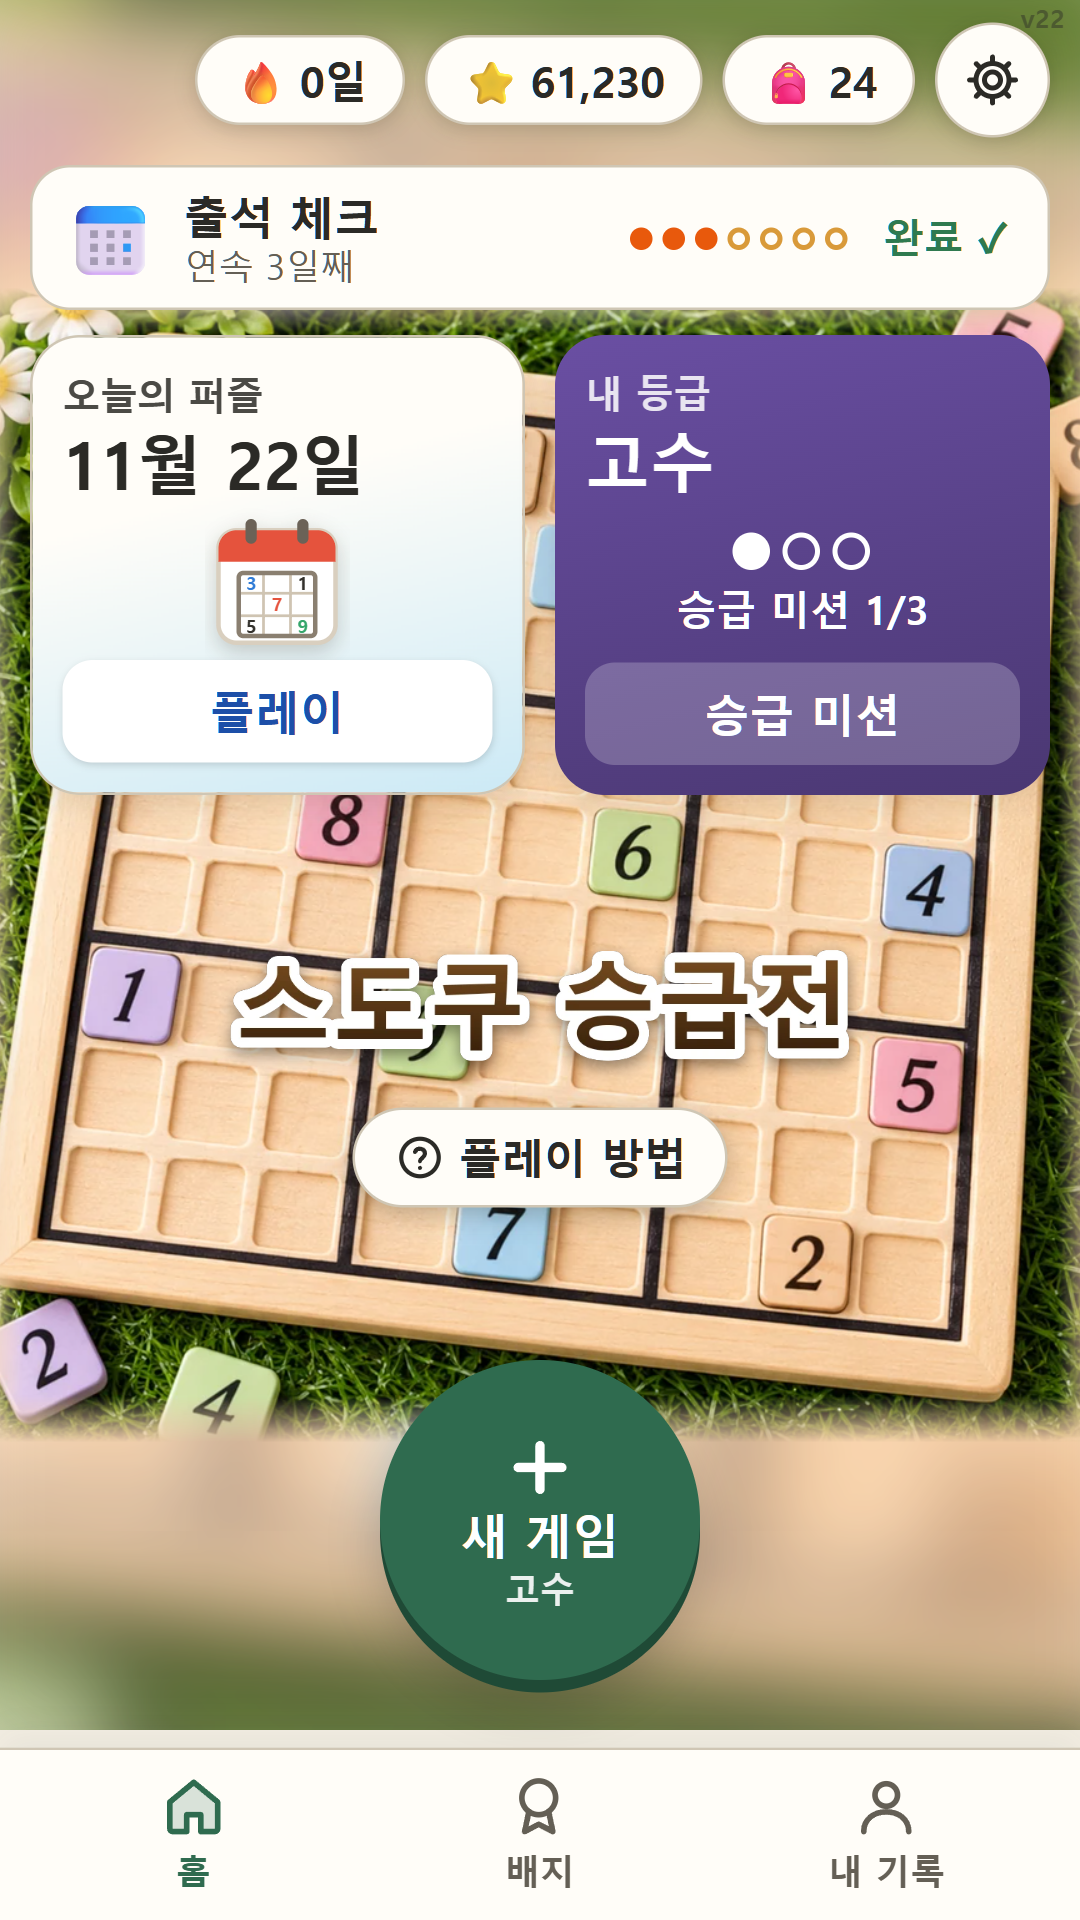
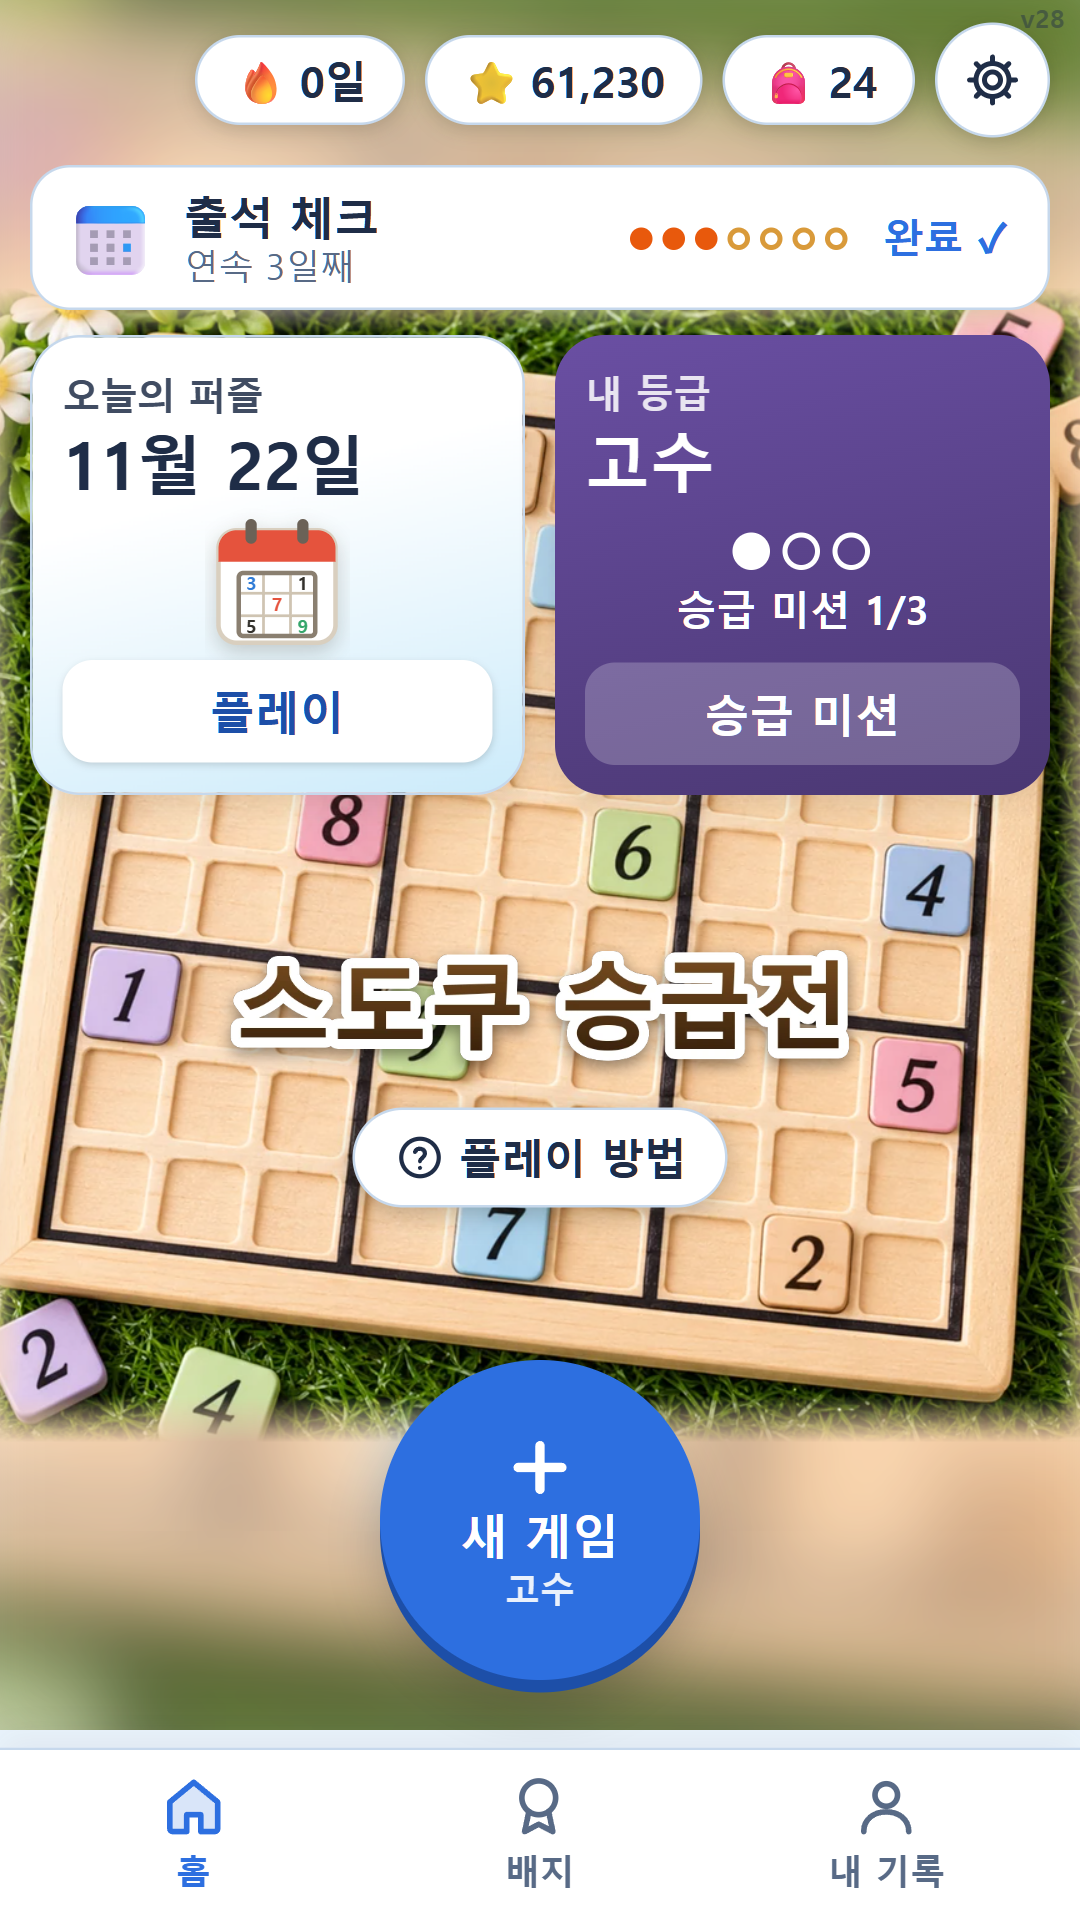
기본 색을 녹색에서 시작 그림의 하늘색 계열로, 승급 창은 '축!' 대신 감탄 한마디와 등급 고양이
- 바탕 · 버튼 · 선 색을 하늘색/파랑으로 (다크 모드도), 스토어 스크린샷 다시 찍음
- 승급 창 동그라미에 올라간 등급의 고양이(기쁨 표정), 맨 위에 '대단해요!' '최고예요!' 등 그때그때 하나

diff --git a/css/style.css b/css/style.css
@@ -6,20 +6,22 @@
    휴대폰에서는 위아래로, PC(너비 900 이상)에서는 판 왼쪽 · 버튼 오른쪽으로 놓입니다.
    ============================================================ */
 :root {
-  --bg: #f3eee3;          /* 바탕 */
-  --surface: #fffdf8;     /* 카드, 판 */
-  --ink: #2b2a26;         /* 기본 글자 */
-  --ink-soft: #645f55;    /* 흐린 글자 */
-  --line: #cfc6b4;        /* 가는 선 */
-  --line-strong: #4a463d; /* 굵은 선 */
-  --accent: #2f6b4f;      /* 주요 버튼 */
+  /* 하늘색 계열 (시작 그림 img/gate.webp 의 하늘 · 제목 파랑에 맞춤) */
+  --bg: #eaf4fd;          /* 바탕 */
+  --surface: #ffffff;     /* 카드, 판 */
+  --ink: #1f2d47;         /* 기본 글자 (짙은 남색) */
+  --ink-soft: #586a86;    /* 흐린 글자 */
+  --line: #c6d8ec;        /* 가는 선 */
+  --line-strong: #2c4568; /* 굵은 선 */
+  --accent: #2d6fe0;      /* 주요 버튼 (제목 파랑) */
+  --accent-shadow: #1d4fa8;
   --accent-ink: #ffffff;
   --user: #1b5aa6;        /* 내가 넣은 숫자 */
   --wrong: #c0362a;       /* 틀린 숫자 */
   --wrong-bg: #fbe1dc;
   --sel: #ffd35c;         /* 고른 칸 */
   --same: #ffe9a6;        /* 같은 숫자 */
-  --peer: #ece5d3;        /* 같은 줄·칸·상자 */
+  --peer: #dfecfa;        /* 같은 줄·칸·상자 */
   --grade: #6f7f8c;       /* 등급 색 (등급마다 바뀜) */
   --radius: 16px;
 }
@@ -331,8 +333,8 @@ button.chip:disabled { cursor: default; }
   font-size: 23px;
   font-weight: 700;
 }
-.btn-primary { background: var(--accent); color: var(--accent-ink); box-shadow: 0 3px 0 var(--accent-shadow, #1f4a36); }
-.btn-primary:active { transform: translateY(2px); box-shadow: 0 1px 0 var(--accent-shadow, #1f4a36); }
+.btn-primary { background: var(--accent); color: var(--accent-ink); box-shadow: 0 3px 0 var(--accent-shadow, #1d4fa8); }
+.btn-primary:active { transform: translateY(2px); box-shadow: 0 1px 0 var(--accent-shadow, #1d4fa8); }
 .btn-secondary { background: var(--surface); color: var(--ink); border: 2px solid var(--line); }
 .btn-secondary:active { background: var(--peer); }
 
@@ -433,7 +435,12 @@ button.chip:disabled { cursor: default; }
 .grade-info { margin: 0; color: var(--ink-soft); font-size: 18px; }
 
 .promo-box { display: flex; flex-direction: column; align-items: center; gap: 12px; animation: rise 0.45s ease-out; }
-.promo-cheer { margin: 0; font-size: 56px; font-weight: 800; color: var(--wrong); line-height: 1; }
+.promo-cheer { margin: 0; font-size: 50px; font-weight: 900; color: var(--accent); line-height: 1.1; letter-spacing: -1px; }
+/* 승급 창 동그라미 : 올라간 등급의 고양이 (img/chars.webp, 기쁨 표정 줄) */
+.promo-face {
+  width: 100%; height: 100%; border-radius: 50%;
+  background: #fff url("../img/chars.webp") 0 20% / 1400% 600% no-repeat;
+}
 .promo-text { margin: 0 0 6px; font-size: 38px; font-weight: 800; }
 .badge-big { width: 168px; height: 168px; animation: stamp 0.6s ease-out; }
 .badge-big .badge-name { font-size: 52px; }
@@ -840,9 +847,9 @@ button.grade-row:hover, button.grade-row:active { background: var(--peer); }
   border: 0; border-radius: 12px;
   background: var(--accent); color: var(--accent-ink);
   font-size: 17px; font-weight: 800;
-  box-shadow: 0 3px 0 var(--accent-shadow, #1f4a36);
+  box-shadow: 0 3px 0 var(--accent-shadow, #1d4fa8);
 }
-.item-use:active { transform: translateY(2px); box-shadow: 0 1px 0 var(--accent-shadow, #1f4a36); }
+.item-use:active { transform: translateY(2px); box-shadow: 0 1px 0 var(--accent-shadow, #1d4fa8); }
 .item-use:disabled { background: var(--line); color: var(--ink-soft); box-shadow: none; cursor: default; }
 
 /* ---------- 출석 체크 창 ---------- */

diff --git a/index.html b/index.html
@@ -4,7 +4,7 @@
   <meta charset="utf-8">
   <!-- 두 손가락으로 화면이 확대되지 않게 (maximum-scale, user-scalable). 설명 글 쪽 privacy.html 은 확대 가능 -->
   <meta name="viewport" content="width=device-width, initial-scale=1, maximum-scale=1, user-scalable=no, viewport-fit=cover">
-  <meta name="theme-color" content="#f3eee3">
+  <meta name="theme-color" content="#eaf4fd">
   <meta name="description" content="하수에서 시작해 한 단계씩 올라가는 무료 스도쿠. 승급 미션을 깨며 올라가는 재미, 설치 없이 바로 즐기세요.">
   <title>스도쿠 승급전 - 하수부터 올라가는 무료 스도쿠</title>
   <link rel="icon" href="icons/icon-192.png" type="image/png">
@@ -13,12 +13,12 @@
   <meta name="mobile-web-app-capable" content="yes">
   <meta name="apple-mobile-web-app-capable" content="yes">
   <meta name="apple-mobile-web-app-title" content="스도쿠 승급전">
-  <link rel="stylesheet" href="css/style.css?v=28">
-  <link rel="stylesheet" href="css/skins.css?v=28">
-  <link rel="stylesheet" href="css/screens.css?v=28">
-  <link rel="stylesheet" href="css/about.css?v=28">
+  <link rel="stylesheet" href="css/style.css?v=29">
+  <link rel="stylesheet" href="css/skins.css?v=29">
+  <link rel="stylesheet" href="css/screens.css?v=29">
+  <link rel="stylesheet" href="css/about.css?v=29">
   <link rel="preload" as="image" href="img/gate.webp">
-  <link rel="stylesheet" href="css/dark.css?v=28">
+  <link rel="stylesheet" href="css/dark.css?v=29">
   <!-- 다크 모드와 스킨을 화면이 뜨기 전에 먼저 입힙니다 (밝은 화면이 번쩍이지 않게) -->
   <script>
     (function () {
@@ -489,9 +489,10 @@
   <!-- 승급 축하 창 -->
   <div class="overlay overlay-top" id="promo" hidden>
     <div class="promo-box">
-      <p class="promo-cheer">축!</p>
+      <p class="promo-cheer" id="promo-cheer">대단해요!</p>
+      <!-- 동그라미 안 : 올라간 등급의 고양이 (js/ui.js 의 showPromo) -->
       <div class="badge badge-big" id="promo-badge">
-        <span class="badge-name" id="promo-grade">평민</span>
+        <span class="promo-face" id="promo-face" role="img" aria-label="평민 고양이"></span>
       </div>
       <p class="promo-text" id="promo-text">평민 승급!</p>
       <button type="button" class="btn btn-primary" id="btn-promo-ok">좋아요!</button>
@@ -738,18 +739,18 @@
 
   <canvas id="confetti" hidden></canvas>
 
-  <script src="js/config.js?v=28"></script>
-  <script src="js/engine.js?v=28"></script>
-  <script src="js/game.js?v=28"></script>
-  <script src="js/progress.js?v=28"></script>
-  <script src="js/settings.js?v=28"></script>
-  <script src="js/skins.js?v=28"></script>
-  <script src="js/sound.js?v=28"></script>
-  <script src="js/effects.js?v=28"></script>
-  <script src="js/badges.js?v=28"></script>
-  <script src="js/account.js?v=28"></script>
-  <script src="js/tutorial.js?v=28"></script>
-  <script src="js/hero.js?v=28"></script>
-  <script src="js/ui.js?v=28"></script>
+  <script src="js/config.js?v=29"></script>
+  <script src="js/engine.js?v=29"></script>
+  <script src="js/game.js?v=29"></script>
+  <script src="js/progress.js?v=29"></script>
+  <script src="js/settings.js?v=29"></script>
+  <script src="js/skins.js?v=29"></script>
+  <script src="js/sound.js?v=29"></script>
+  <script src="js/effects.js?v=29"></script>
+  <script src="js/badges.js?v=29"></script>
+  <script src="js/account.js?v=29"></script>
+  <script src="js/tutorial.js?v=29"></script>
+  <script src="js/hero.js?v=29"></script>
+  <script src="js/ui.js?v=29"></script>
 </body>
 </html>

diff --git a/css/screens.css b/css/screens.css
@@ -140,7 +140,7 @@ body:not([data-screen="game"]) .page { padding-top: 8px; padding-bottom: 12px; }
   border: 1px solid var(--line);
 }
 .hcard-daily .hcard-btn { box-shadow: 0 1px 3px rgba(0, 0, 0, 0.15); }
-.hcard-daily.done .hcard-btn { color: #2f7a4f; }
+.hcard-daily.done .hcard-btn { color: var(--accent); }
 .hcard-grade { background: linear-gradient(165deg, var(--grade), color-mix(in srgb, var(--grade) 70%, #000)); color: #fff; }
 .hcard-grade .hcard-btn { background: rgba(255, 255, 255, 0.22); color: #fff; }
 .hcard-prog { flex-direction: column; gap: 8px; font-size: 16px; font-weight: 700; }
@@ -222,10 +222,10 @@ body:not([data-screen="game"]) .page { padding-top: 8px; padding-bottom: 12px; }
 .round-btn:active { transform: translateY(3px); }
 .round-continue {
   background: var(--accent); color: var(--accent-ink);
-  box-shadow: 0 5px 0 var(--accent-shadow, #1f4a36), 0 10px 20px rgba(0, 0, 0, 0.18);
+  box-shadow: 0 5px 0 var(--accent-shadow, #1d4fa8), 0 10px 20px rgba(0, 0, 0, 0.18);
 }
 .round-continue svg { fill: currentColor; }
-.round-continue:active { box-shadow: 0 2px 0 var(--accent-shadow, #1f4a36); }
+.round-continue:active { box-shadow: 0 2px 0 var(--accent-shadow, #1d4fa8); }
 .round-new {
   background: var(--surface); color: var(--ink);
   border: 3px solid var(--accent);
@@ -234,7 +234,7 @@ body:not([data-screen="game"]) .page { padding-top: 8px; padding-bottom: 12px; }
 .round-new svg { fill: none; stroke: var(--accent); stroke-width: 3; stroke-linecap: round; }
 .round-new:active { box-shadow: 0 2px 0 var(--line); }
 /* 이어서 할 판이 없을 때 : 새 게임이 꽉 찬 색 단추 */
-.round-new.solo { background: var(--accent); color: var(--accent-ink); border: 0; box-shadow: 0 5px 0 var(--accent-shadow, #1f4a36), 0 10px 20px rgba(0, 0, 0, 0.18); }
+.round-new.solo { background: var(--accent); color: var(--accent-ink); border: 0; box-shadow: 0 5px 0 var(--accent-shadow, #1d4fa8), 0 10px 20px rgba(0, 0, 0, 0.18); }
 .round-new.solo svg { stroke: currentColor; }
 
 /* ---------- 아래 메뉴 ---------- */
@@ -371,7 +371,7 @@ body:not([data-screen="game"]) .page { padding-top: 8px; padding-bottom: 12px; }
 }
 .attend-bar.done { background: var(--surface); border-color: var(--line); box-shadow: none; color: var(--ink); }
 .attend-bar.done .attend-bar-t small { color: var(--ink-soft); }
-.attend-bar.done .attend-bar-go { background: transparent; color: #2f7a4f; animation: none; padding: 6px 4px; }
+.attend-bar.done .attend-bar-go { background: transparent; color: var(--accent); animation: none; padding: 6px 4px; }
 @keyframes attend-blink { 50% { background: #f6b98f; } }
 @keyframes attend-pulse { 50% { transform: scale(1.07); } }
 /* 좁은 휴대폰 : 점 7개는 숨김 */

diff --git a/js/skins.js b/js/skins.js
@@ -18,7 +18,7 @@
   }
 
   var LIST = [
-    { id: 'default', name: '기본', tile: false, swatch: { bg: '#4a463d', cells: ['#fffdf8', '#ece5d3', '#fffdf8', '#ece5d3', '#ffd35c', '#ece5d3', '#fffdf8', '#ece5d3', '#ffe9a6'] } },
+    { id: 'default', name: '기본', tile: false, swatch: { bg: '#2c4568', cells: ['#ffffff', '#dfecfa', '#ffffff', '#dfecfa', '#ffd35c', '#dfecfa', '#ffffff', '#dfecfa', '#ffe9a6'] } },
     { id: 'pastel-green', name: '파스텔 초록', tile: false, swatch: { bg: '#8a9a88', cells: pastel('#c9e8c4') } },
     { id: 'pastel-yellow', name: '파스텔 노랑', tile: false, swatch: { bg: '#9a947a', cells: pastel('#f5e793') } },
     { id: 'pastel-purple', name: '파스텔 보라', tile: false, swatch: { bg: '#8c88a6', cells: pastel('#c5bdef') } },
@@ -81,7 +81,7 @@
     else el.removeAttribute('data-theme');
     // 휴대폰 맨 위 알림줄 색도 바탕색에 맞춥니다
     var meta = document.querySelector('meta[name="theme-color"]');
-    if (meta) meta.setAttribute('content', getComputedStyle(el).getPropertyValue('--bg').trim() || (dark ? '#1b1a17' : '#f3eee3'));
+    if (meta) meta.setAttribute('content', getComputedStyle(el).getPropertyValue('--bg').trim() || (dark ? '#1b1a17' : '#eaf4fd'));
     return dark;
   }
 

diff --git a/js/ui.js b/js/ui.js
@@ -1519,8 +1519,15 @@
     });
   }
 
+  /* 승급 축하 창 : 맨 위 감탄 한마디(그때그때 하나), 동그라미에는 올라간 등급의 고양이 */
+  var CHEERS = ['대단해요!', '멋져요!', '최고예요!', '해냈어요!', '와아, 굉장해요!', '훌륭해요!', '브라보!', '놀라워요!'];
   function showPromo(grade) {
-    $('promo-grade').textContent = grade.name;
+    $('promo-cheer').textContent = CHEERS[Math.floor(Math.random() * CHEERS.length)];
+    var col = typeof grade.char === 'number' ? grade.char : C.GRADES.indexOf(grade);
+    var face = $('promo-face');
+    face.style.backgroundPosition = (col / 13) * 100 + '% 20%'; // 14칸 중 col 번째, 6줄 중 2번째(기쁨)
+    face.setAttribute('aria-label', grade.name + ' 고양이');
+    $('promo-badge').style.setProperty('--grade', grade.color);
     $('promo-text').textContent = grade.name + ' 승급!';
     $('promo').hidden = false;
     S.Sound.play('promo');

diff --git a/store/make-images.js b/store/make-images.js
@@ -111,7 +111,8 @@ async function fillSome(page, ratio) {
   ({ ctx, page } = await open(browser, phone, { skin: 'pastel-purple' }));
   await page.click('#home-new');
   await page.evaluate(() => {
-    document.getElementById('promo-grade').textContent = '영웅';
+    document.getElementById('promo-cheer').textContent = '대단해요!';
+    document.getElementById('promo-face').style.backgroundPosition = (6 / 13) * 100 + '% 20%';
     document.getElementById('promo-text').textContent = '영웅 승급!';
     document.getElementById('promo-badge').style.setProperty('--grade', '#a3477f');
     document.getElementById('promo').hidden = false;

diff --git a/js/config.js b/js/config.js
@@ -9,8 +9,8 @@
 
   S.Config = {
     // 화면 오른쪽 위에 작게 보이는 버전 (휴대폰에 새 파일이 들어왔는지 확인용)
-    // 고칠 때마다  python tools/bump_version.py  로 올립니다 (sw.js 의 CACHE, index.html 의 ?v= 도 함께) : sudoku-files-v28 → 'v28'
-    VERSION: 'v28',
+    // 고칠 때마다  python tools/bump_version.py  로 올립니다 (sw.js 의 CACHE, index.html 의 ?v= 도 함께) : sudoku-files-v29 → 'v29'
+    VERSION: 'v29',
 
     FAILS_TO_DEMOTE: 3, // 연속으로 이만큼 실패하면 강등
     MAX_MISTAKES: 3, // 한 판에서 틀릴 수 있는 횟수

diff --git a/css/dark.css b/css/dark.css
@@ -23,12 +23,12 @@
   --sel: #6e5c1c;
   --same: #4a4224;
   --peer: #34312a;
-  --wave: #2f5c3e;
+  --wave: #2a4a72;
 }
 :root[data-theme="dark"]:not([data-skin]),
 :root[data-theme="dark"][data-skin="default"] {
-  --accent: #368260;
-  --accent-shadow: #1f4d38;
+  --accent: #3f82e6;
+  --accent-shadow: #234f96;
 }
 
 :root[data-theme="dark"] .overlay { background: rgba(0, 0, 0, 0.66); }

diff --git a/sw.js b/sw.js
@@ -10,7 +10,7 @@
  * 새 파일(그림, js, css)을 추가했으면 아래 FILES 목록에도 한 줄 넣어 주세요.
  * 버전을 올릴 때는  python tools/bump_version.py  를 쓰면 CACHE, 화면 버전, index.html 의 ?v= 가 한 번에 바뀝니다.
  */
-var CACHE = 'sudoku-files-v28';
+var CACHE = 'sudoku-files-v29';
 var FILES = [
   './',
   'index.html',
